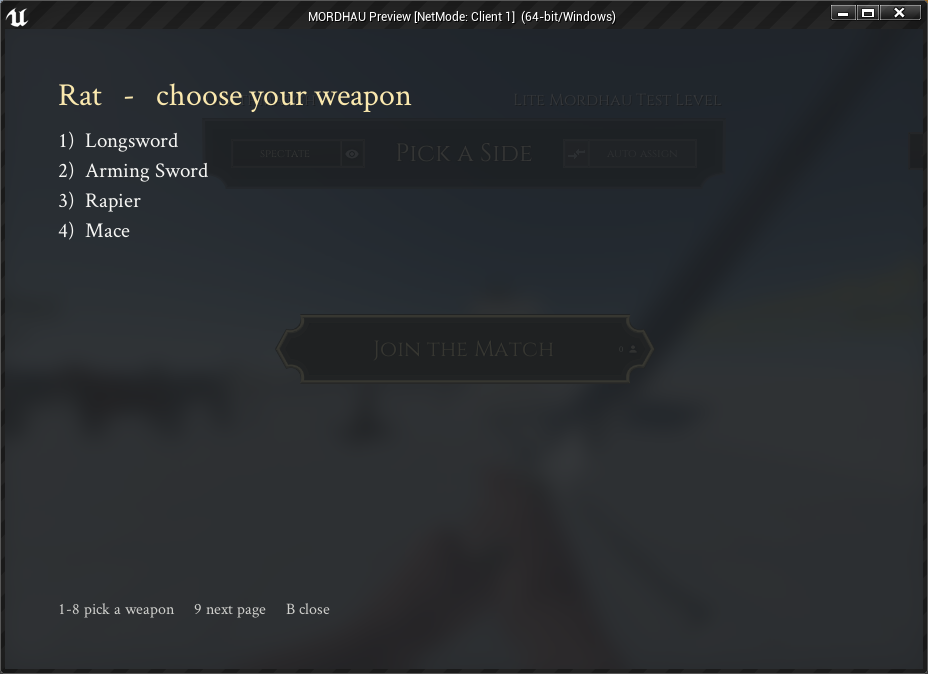
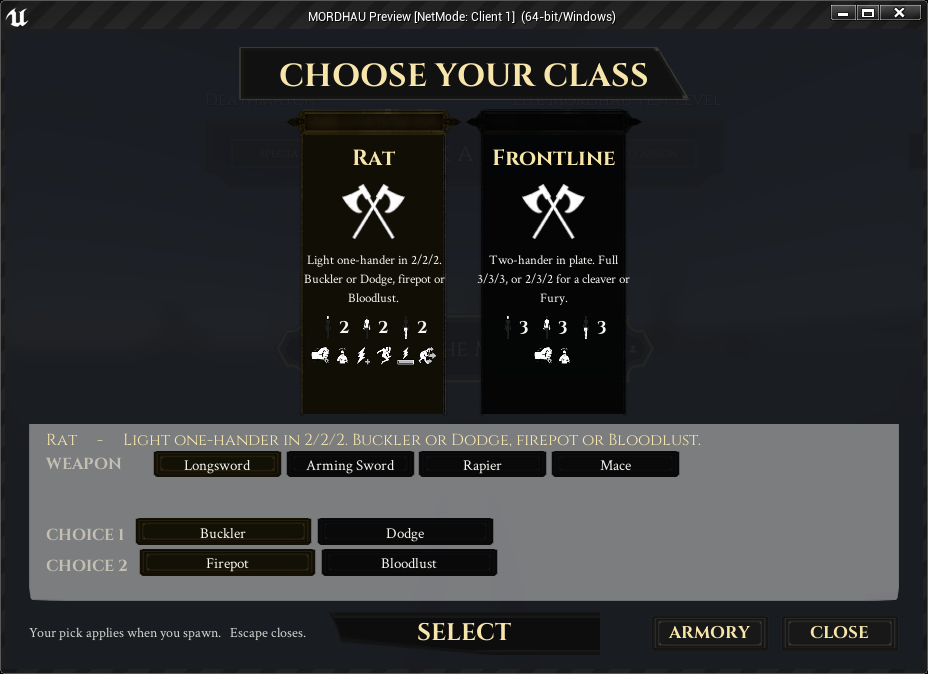
Class selector: mouse-driven class screen, per-team limits, armory access (docs + screenshot)

diff --git a/README.md b/README.md
@@ -177,15 +177,17 @@ Log lines to look for (server log, `[ProClasses] remote ...`):
 `weapon patch <key> = <new> (was <old>)`, `weapon baseline restored <key> = <old>`,
 `remote fetch FAILED, http code N`.
 
-### Class selector (2026-10-28, first build)
+### Class selector (2026-10-29)
 
-With `ClassSelect=1` the server stops relying on armory loadouts for class
-picks: **B** (the game's loadout key) opens a class panel instead of the
-loadout list, and the spawn screen's loadout button opens the same panel.
-Number keys pick a card, then a weapon, then one button per trade-off row;
-the pick closes the panel and applies on the next spawn (the server swaps in
-the chosen weapon if your loadout holds something else). Players who never
-pick are classed exactly as before (weapon lines, else `Default`).
+With `ClassSelect=1` the loadout list is replaced by a class screen (modelled on
+Team Objective's): it opens when you join, when you die and on **B**; Escape
+closes it; **ARMORY** opens the game's armory (your loadouts still provide your
+armor look and skins). One banner card per class shows armor tiers, perks and
+description; pick a card, a weapon and one button per trade-off row, then
+SELECT. The pick applies on your next spawn (at once in warmup); the server
+swaps in the chosen weapon if your loadout holds something else, keeping your
+own armor where the tier matches. Players who never pick are classed as before
+(weapon lines, else `Default`).
 
 ```ini
 [ProClasses]
@@ -205,6 +207,7 @@ Base=SelRat                  ; the class to start from: a [Classes] name or a /P
                              ; It is the "nothing chosen" state - no optional gear or perks in it.
 Description=Light one-hander in 2/2/2. Buckler or Dodge, firepot or Bloodlust.
 Weapons=4,23,17,25,22,8,63,2 ; weapons the player may pick (equipment ids, as ArmoryWeaponIDs)
+Max=-1                       ; per-team limit like Team Objective's MaxKnights: -1 none, 0 banned, N cap
 Choice1=Buckler|Dodge        ; one row of buttons; the player picks exactly one per row
 Choice1.1=Gear:61            ; what button 1 of row 1 does
 Choice1.2=Perk:17            ; what button 2 of row 1 does
@@ -216,17 +219,13 @@ Choice2.2=Perk:13
 Effects, comma separated: `Armor:H/C/L` (tiers head/chest/legs; the pieces
 come from the `Tier*IDs` tables), `Perk:<id>` (next free perk slot),
 `Gear:<id>` (next free gear slot), or any raw class-def field as `Field=value`.
-An empty effect (`Choice1.1=`) means "the base class as is". Works in Game.ini
-and in the hosted file alike. Worked example with the live Jungle classes:
+An empty effect (`Choice1.1=`) means "the base class as is". Cards show
+"n / Max on your team" and a full card cannot be picked. Works in Game.ini and
+in the hosted file alike. Worked example with the live Jungle classes:
 [selector-test.ini](selector-test.ini).
 
 Ids: perks 0 Brawler, 1 Acrobat, 2 Fury, 7 Rat, 12 Second Wind, 13 Bloodlust,
 17 Dodge, 21 Stun; gear 27 firepot, 56 cleaver, 61 buckler.
-
-Known limits of the first build: the panel is keyboard only (no mouse);
-the weapon you pick spawns with its default look unless your own loadout
-already holds that weapon (then your skin stays); the pick applies on the
-next spawn.
 
 ## Server MOTD
 

diff --git a/CHANGELOG.md b/CHANGELOG.md
@@ -1,13 +1,16 @@
 # ProClasses changelog
 
-## Class selector — 2026-10-28 (built, PIE-verified, not yet packaged)
+## Class selector — 2026-10-29 (built, PIE-verified, not yet packaged)
 
 - **New: in-game class selector.** `ClassSelect=1` under `[ProClasses]` plus
   `[Selector]` / `[Selector.<Card>]` sections (cards, weapons per card, rows of
-  trade-off buttons with `Armor:` / `Perk:` / `Gear:` effects) put a class panel
-  on the B key in place of the loadout list; the spawn screen's loadout button
-  opens the same panel. Picks apply on the next spawn; the server swaps in the
-  chosen weapon when the loadout holds something else. Servers without the key
+  trade-off buttons with `Armor:` / `Perk:` / `Gear:` effects) replace the
+  loadout list with a mouse-driven class screen (banner cards with armor tiers,
+  perk icons and description; weapon and trade-off buttons) that opens on join,
+  on death and on B; Escape closes it, ARMORY opens the game's armory. Per-team
+  `Max` limits per card. Picks apply on the next spawn (at once in warmup); the
+  server swaps in the chosen weapon when the loadout holds something else and
+  keeps the player's own armor and skins where they fit. Servers without the key
   are unchanged. Grammar and ids: README "Class selector".
 - `selector-test.ini`: the live Jungle file plus a selector block, ready to
   copy over `proclasses.ini` for the live trial.
